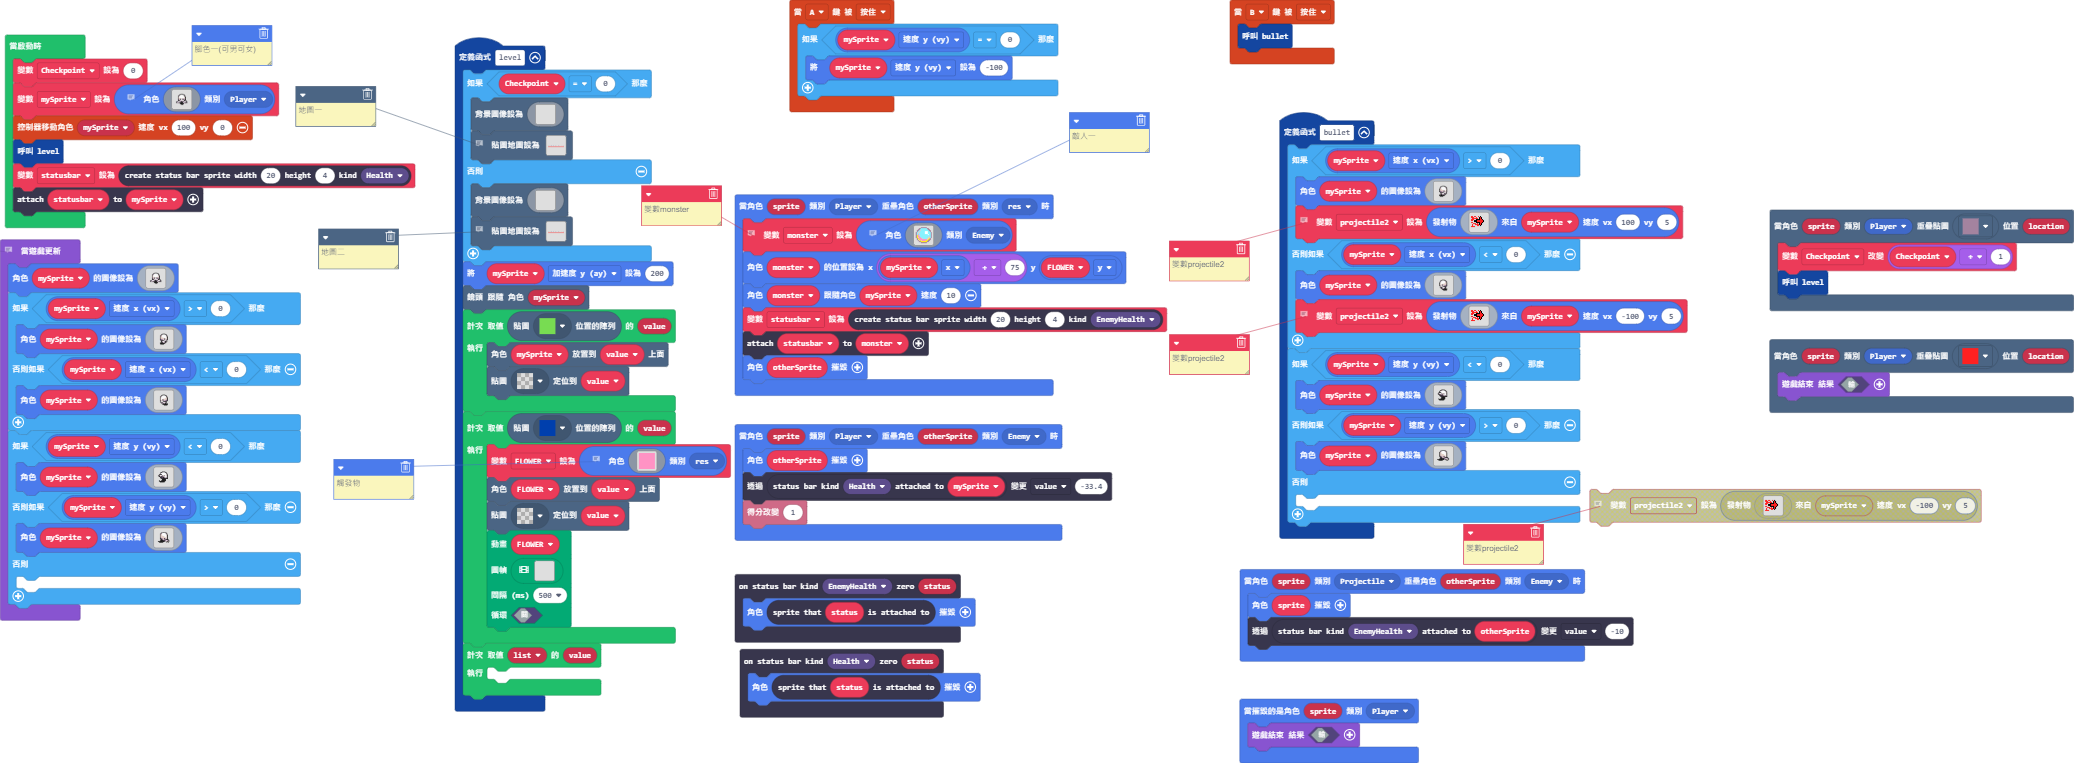
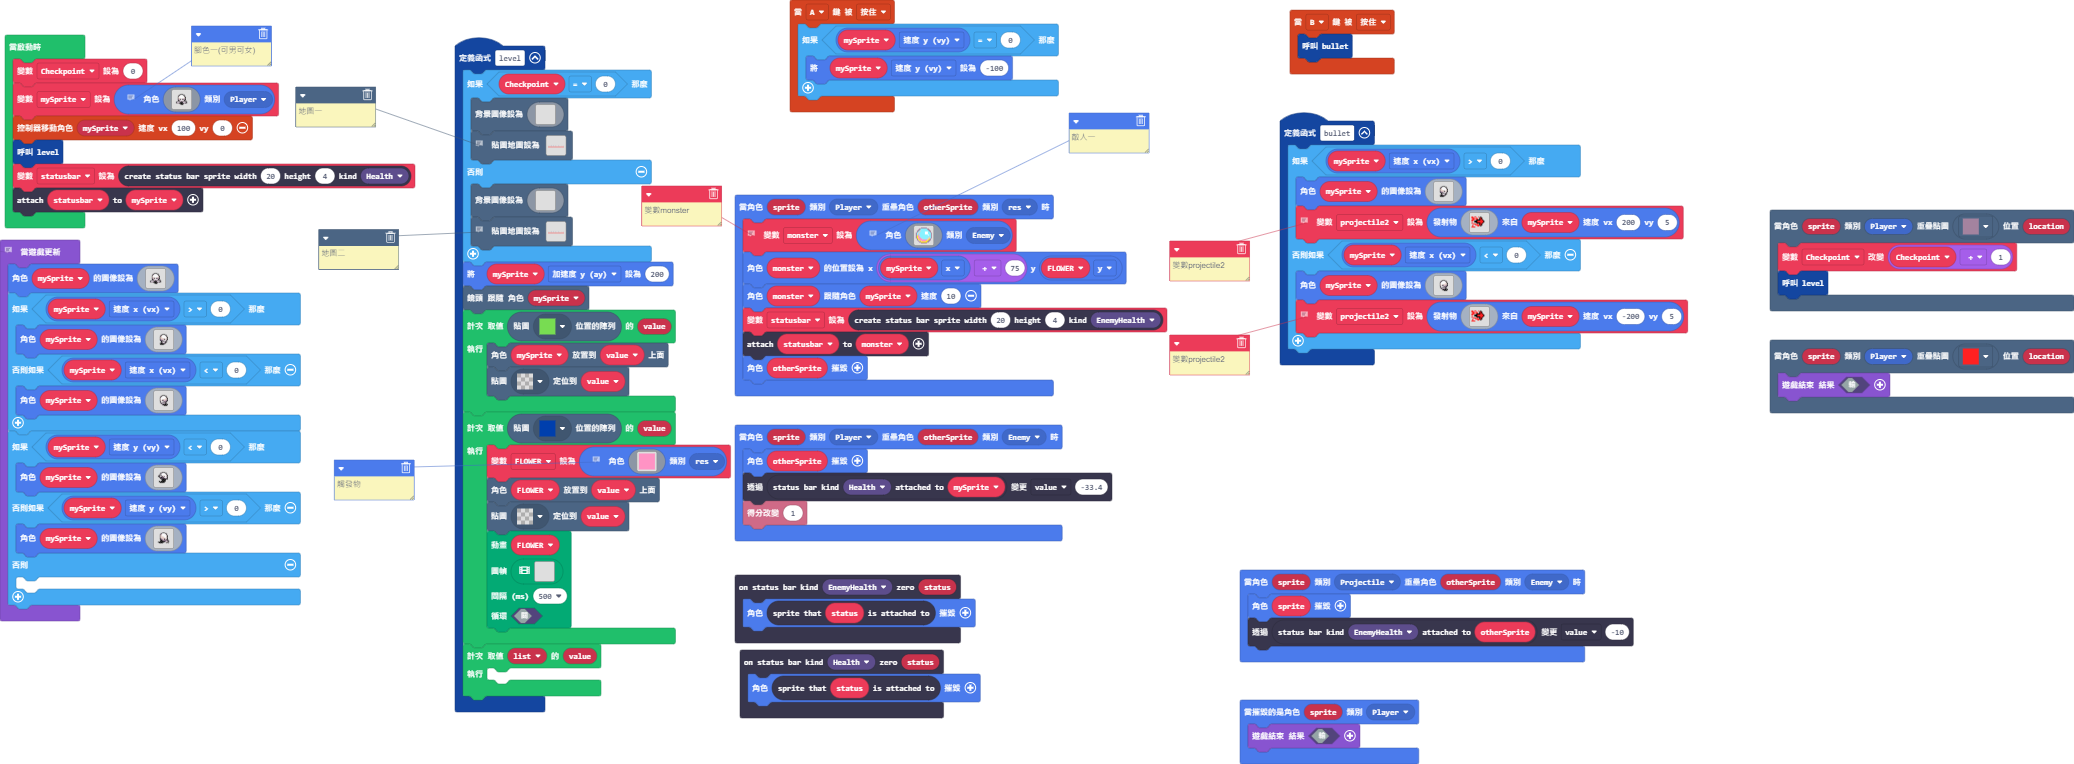
更新 main.blocks, main.ts, tilemap.g.jres, tilemap.g.ts

diff --git a/main.ts b/main.ts
@@ -364,7 +364,7 @@ function bullet () {
             . . . . . . . . . . . . . . . . 
             . . . . . . . . . . . . . . . . 
             . . . . . . . . . . . . . . . . 
-            `, mySprite, 100, 5)
+            `, mySprite, 200, 5)
     } else if (mySprite.vx < 0) {
         mySprite.setImage(img`
             ........................
@@ -410,64 +410,7 @@ function bullet () {
             . . . . . . . . . . . . . . . . 
             . . . . . . . . . . . . . . . . 
             . . . . . . . . . . . . . . . . 
-            `, mySprite, -100, 5)
-    }
-    if (mySprite.vy < 0) {
-        mySprite.setImage(img`
-            ........................
-            ........................
-            ........................
-            ........................
-            .........fffff..........
-            .......ffb1111ff........
-            ......fb1111111bf.......
-            ......f111111111f.......
-            .....ffff1111111df......
-            ....fb111c1dd111df......
-            ....ffb1b1fdcf11bf......
-            .....ffbfbfb11111f......
-            ......ffffcfdb1b1f......
-            .......fcccfcfbfbf......
-            ........ffffffffff......
-            .........ffffff.........
-            .........ffffff.........
-            .....f..fffffff.........
-            .....fffffffff..........
-            ......fffffff...........
-            ........................
-            ........................
-            ........................
-            ........................
-            `)
-    } else if (mySprite.vy > 0) {
-        mySprite.setImage(img`
-            ........................
-            ........................
-            ........................
-            ..........ffff..........
-            ........ff1111ff........
-            .......fb111111bf.......
-            ......fbd1111111f.......
-            ......fdd1111111df......
-            ......fddd111111df......
-            ......fdddddd111df......
-            ......fdddddd111df......
-            ......fbddddddd1df......
-            ......ffbbddbfd1df......
-            .......fcbbdcfddbf......
-            .......fffbddccffff.....
-            .......ffffcfbbb1bcf....
-            ......ffffffffcd1b1f....
-            ...ffffffffff..fdfdf....
-            .....ffffff.....f.f.....
-            ........................
-            ........................
-            ........................
-            ........................
-            ........................
-            `)
-    } else {
-    	
+            `, mySprite, -200, 5)
     }
 }
 statusbars.onZero(StatusBarKind.EnemyHealth, function (status) {

diff --git a/tilemap.g.ts b/tilemap.g.ts
@@ -109,6 +109,44 @@ namespace myTiles {
 . . . . . . . . . . . . . . . . 
 . . . . . . . . . . . . . . . . 
 `, [myTiles.transparency16], TileScale.Sixteen);
+            case "層級6":
+            case "層級6":return tiles.createTilemap(hex`1000100000000000000000000000000000000000000000000000000000000000000000000000000000000000000000000000000000000000000000000000000000000000000000000000000000000000000000000000000000000000000000000000000000000000000000000000000000000000000000000000000000000000000000000000000000000000000000000000000000000000000000000000000000000000000000000000000000000000000000000000000000000000000000000000000000000000000000000000000000000000000000000000000000000000000000000000000000000000000000000000000000000000000000000000000000000000`, img`
+. . . . . . . . . . . . . . . . 
+. . . . . . . . . . . . . . . . 
+. . . . . . . . . . . . . . . . 
+. . . . . . . . . . . . . . . . 
+. . . . . . . . . . . . . . . . 
+. . . . . . . . . . . . . . . . 
+. . . . . . . . . . . . . . . . 
+. . . . . . . . . . . . . . . . 
+. . . . . . . . . . . . . . . . 
+. . . . . . . . . . . . . . . . 
+. . . . . . . . . . . . . . . . 
+. . . . . . . . . . . . . . . . 
+. . . . . . . . . . . . . . . . 
+. . . . . . . . . . . . . . . . 
+. . . . . . . . . . . . . . . . 
+. . . . . . . . . . . . . . . . 
+`, [myTiles.transparency16], TileScale.Sixteen);
+            case "層級7":
+            case "層級7":return tiles.createTilemap(hex`1000100000000000000000000000000000000000000000000000000000000000000000000000000000000000000000000000000000000000000000000000000000000000000000000000000000000000000000000000000000000000000000000000000000000000000000000000000000000000000000000000000000000000000000000000000000000000000000000000000000000000000000000000000000000000000000000000000000000000000000000000000000000000000000000000000000000000000000000000000000000000000000000000000000000000000000000000000000000000000000000000000000000000000000000000000000000000`, img`
+. . . . . . . . . . . . . . . . 
+. . . . . . . . . . . . . . . . 
+. . . . . . . . . . . . . . . . 
+. . . . . . . . . . . . . . . . 
+. . . . . . . . . . . . . . . . 
+. . . . . . . . . . . . . . . . 
+. . . . . . . . . . . . . . . . 
+. . . . . . . . . . . . . . . . 
+. . . . . . . . . . . . . . . . 
+. . . . . . . . . . . . . . . . 
+. . . . . . . . . . . . . . . . 
+. . . . . . . . . . . . . . . . 
+. . . . . . . . . . . . . . . . 
+. . . . . . . . . . . . . . . . 
+. . . . . . . . . . . . . . . . 
+. . . . . . . . . . . . . . . . 
+`, [myTiles.transparency16], TileScale.Sixteen);
         }
         return null;
     })
